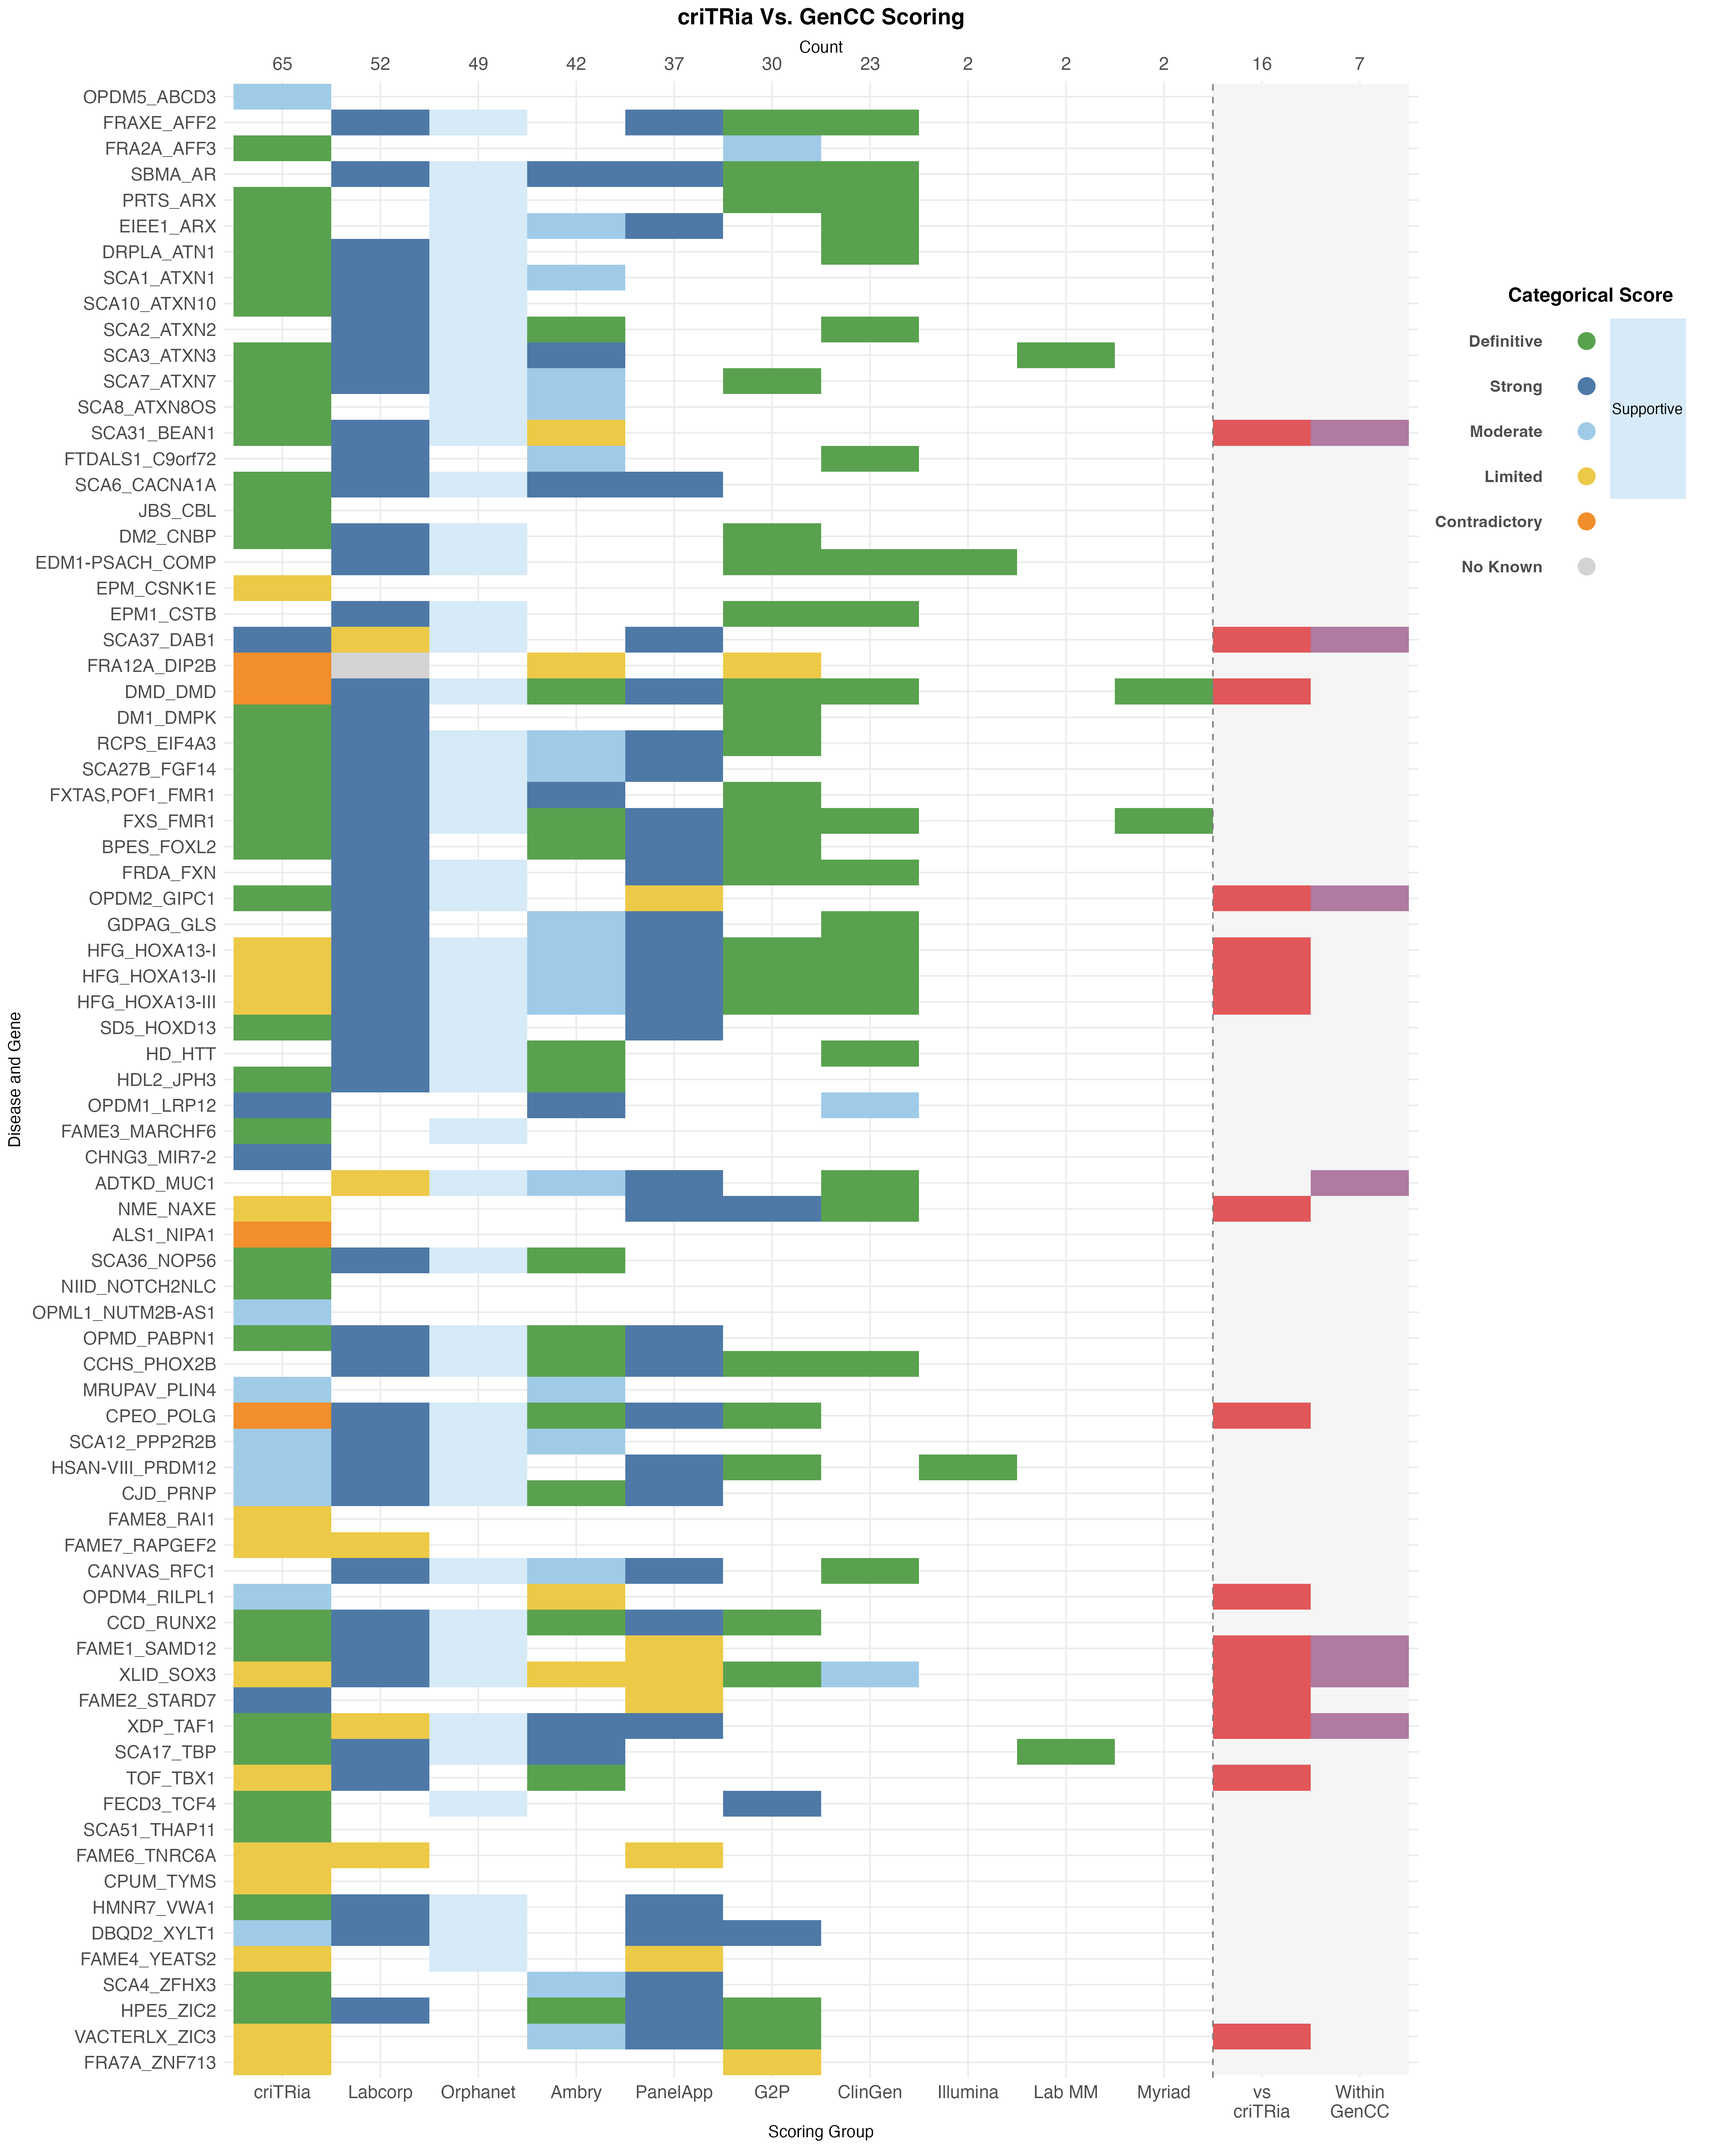
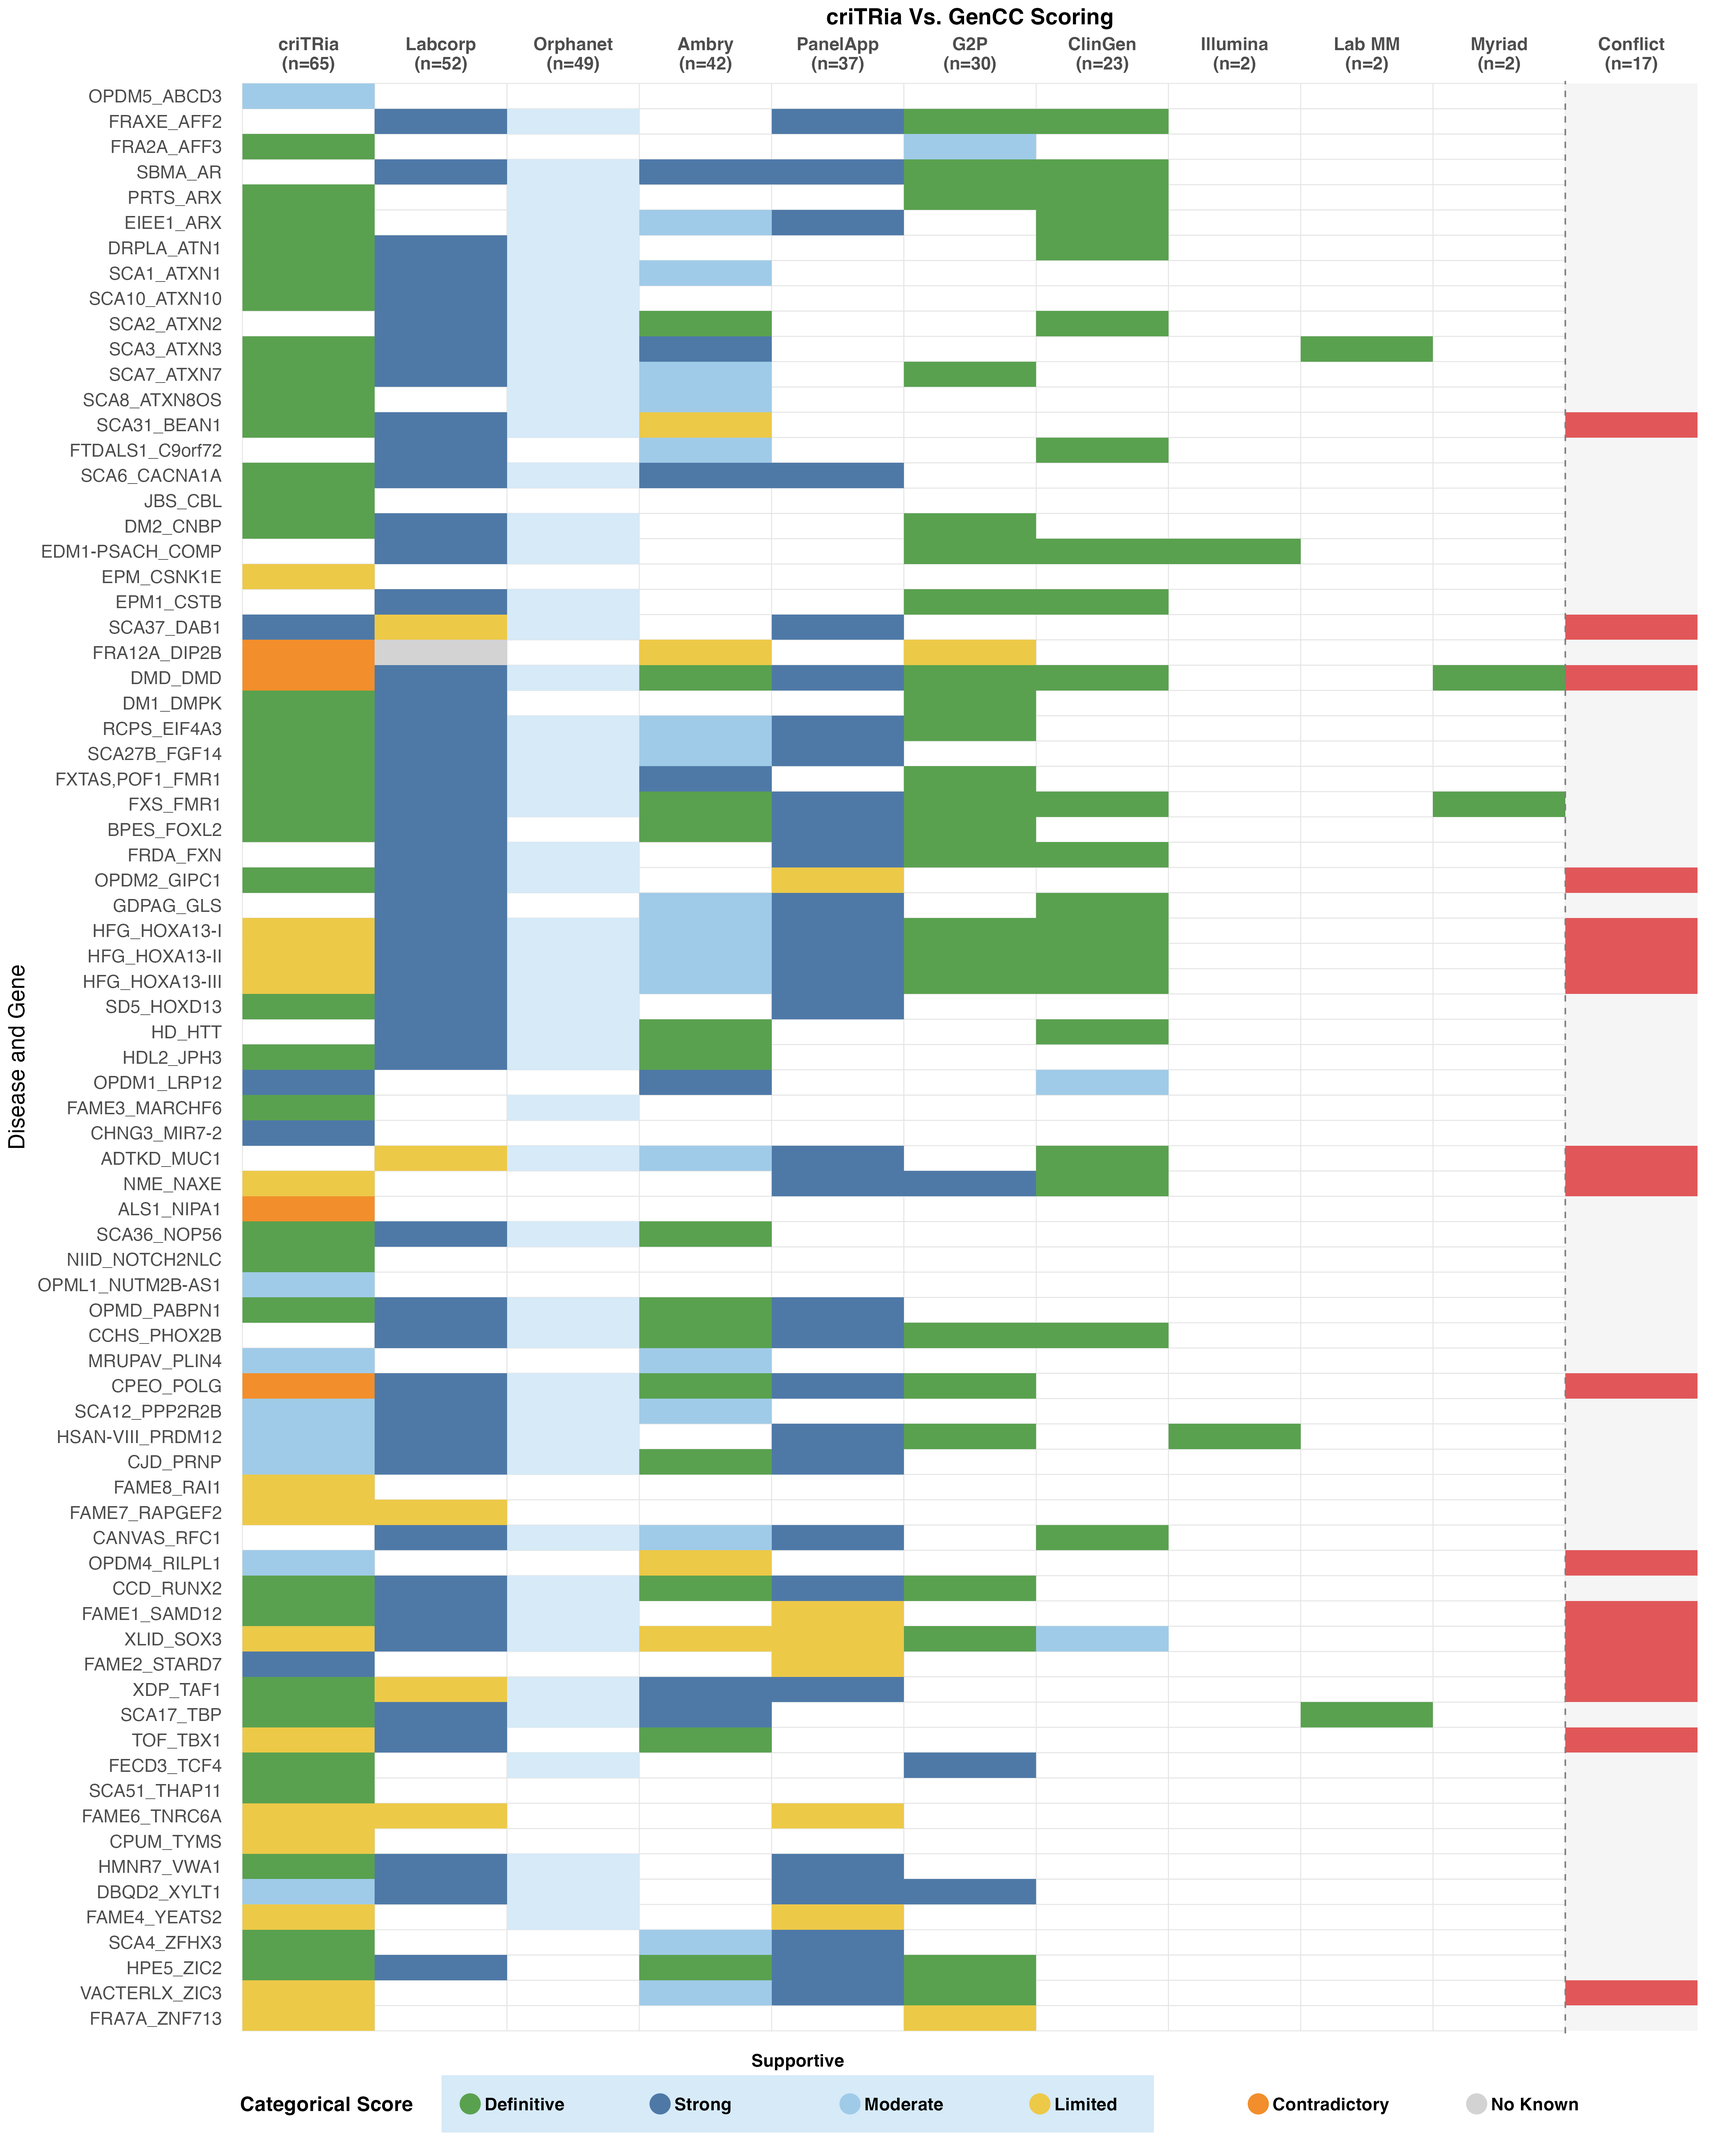
update heatmap

diff --git a/README.md b/README.md
@@ -64,7 +64,7 @@ A GenCC classification is assigned to a locus only when its disease ID (MONDO, O
 
 ### Discordance
 
-A locus is discordant when one classification is high (Definitive, Strong or Moderate) and another is low (Limited, Contradictory or No Known); Supportive counts as neither. "vs criTRia" means criTRia is on the opposite side from at least one GenCC group, and "within GenCC" means GenCC groups disagree among themselves. Both flags are defined in `scripts/discordance.R` and used for Figure 2 and Supplemental File X. The scenario and rationale text in `scripts/02_discordance.R` is written by hand and should be checked when classifications change.
+A locus is discordant when one classification is high (Definitive, Strong or Moderate) and another is low (Limited, Contradictory or No Known); Supportive counts as neither. "vs criTRia" means criTRia is on the opposite side from at least one GenCC group, and "within GenCC" means GenCC groups disagree among themselves. Both flags are defined in `scripts/discordance.R` and used for Supplemental File X; Figure 2 has a single Conflict column that flags a locus if either is true. The scenario and rationale text in `scripts/02_discordance.R` is written by hand and should be checked when classifications change.
 
 ### Manually reviewed comparisons not matched
 
